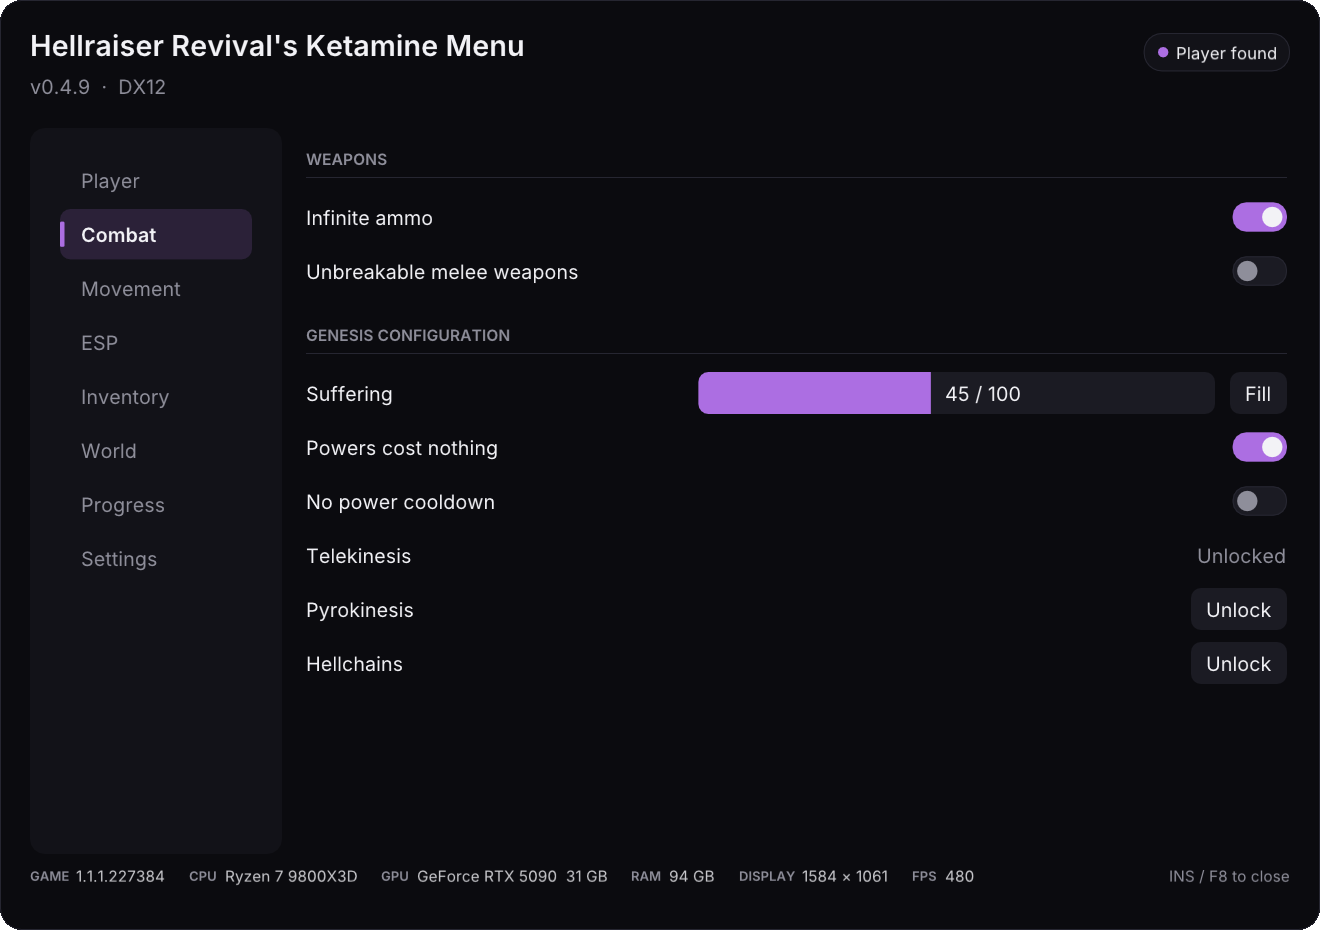
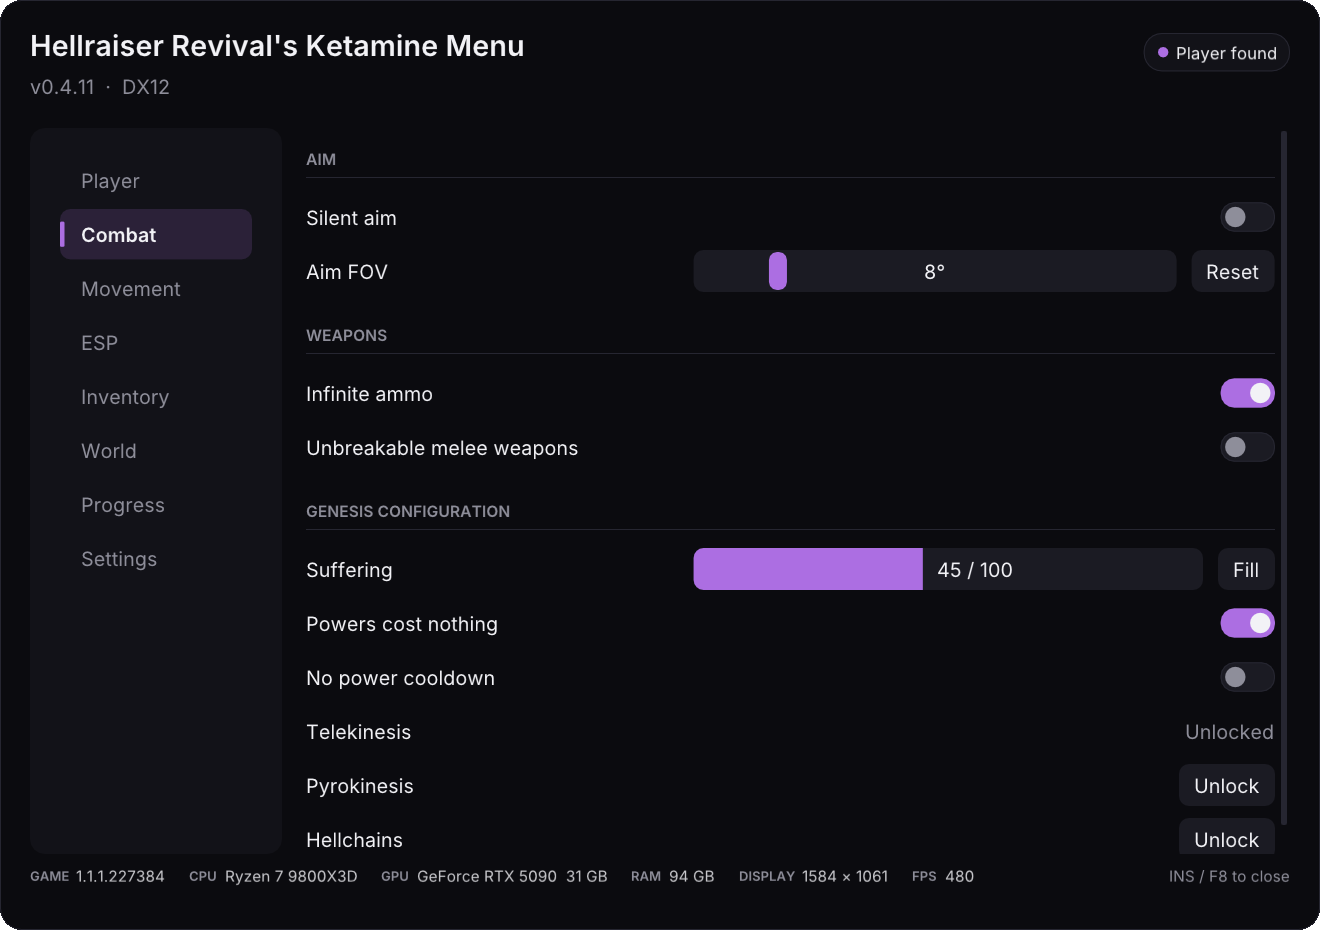
v0.4.11: docs for silent aim and Linux / Steam Deck
READMEs (9 languages) and the Nexus description: silent aim in the feature
list, the Proton launch option WINEDLLOVERRIDES="winmm=n,b" %command%
(GitHub issue #1); default ini gets SilentAim / EspAimFov; Combat and ESP
screenshots re-rendered.

diff --git a/README.ru.md b/README.ru.md
@@ -69,6 +69,8 @@ Clive Barker's Hellraiser - Revival\
 **Вручную, «распаковать в папку игры»:** используйте `KetamineMenu-vX.Y.Z-Nexus.zip`. В нём уже есть папки `Hellraiser\Binaries\Win64\`,
 поэтому Vortex установит его куда нужно, а вручную его можно распаковать прямо в папку игры.
 
+**Linux / Steam Deck (Proton):** Proton загружает свою `winmm.dll` вместо файла меню. В Steam: правой кнопкой по игре → **Свойства** (Properties) → **Параметры запуска** (Launch Options), добавьте `WINEDLLOVERRIDES="winmm=n,b" %command%`.
+
 > [!TIP]
 > Если <kbd>Insert</kbd> / <kbd>F8</kbd> ничего не делают, откройте `KetamineMenu.log` рядом с DLL: там точно написано, что найдено, а что нет.
 > См. [FAQ](#faq--решение-проблем).
@@ -95,6 +97,7 @@ Clive Barker's Hellraiser - Revival\
 - Способности Конфигурации Генезиса (Genesis Configuration) без затрат Страдания
 - Без перезарядки способностей, восполнение Страдания
 - Телекинез, пирокинез и адские цепи раньше, чем по сюжету
+- Тихий аимбот: пули попадают в голову врага, ближайшего к прицелу, внутри настраиваемого круга
 
 **Движение**
 - Полёт и прохождение сквозь стены — туда, куда вы смотрите, обычными клавишами движения или геймпадом

diff --git a/README.ja.md b/README.ja.md
@@ -69,6 +69,8 @@ Clive Barker's Hellraiser - Revival\
 **手動で「ゲームフォルダに展開」する場合：** 代わりに `KetamineMenu-vX.Y.Z-Nexus.zip` を使ってください。`Hellraiser\Binaries\Win64\`
 のフォルダ構成が含まれているので、Vortex が正しい場所に入れてくれますし、ゲームフォルダにそのまま展開することもできます。
 
+**Linux / Steam Deck（Proton）：** Proton はメニューのものではなく自前の `winmm.dll` を読み込みます。Steam でゲームを右クリック → **プロパティ**（Properties）→ **起動オプション**（Launch Options）に `WINEDLLOVERRIDES="winmm=n,b" %command%` を追加してください。
+
 > [!TIP]
 > <kbd>Insert</kbd> / <kbd>F8</kbd> を押しても何も起きない場合は、DLL と同じ場所にある `KetamineMenu.log` を開いてください。何が見つかり、何が見つからなかったかが書かれています。
 > [FAQ](#faq--トラブルシューティング) も参照してください。
@@ -95,6 +97,7 @@ Clive Barker's Hellraiser - Revival\
 - ジェネシス構成（Genesis Configuration）の能力で苦痛を消費しない
 - 能力のクールダウンなし、苦痛を満タンにする
 - 念動力・発火能力・ヘルチェーンをストーリーより先にアンロック
+- サイレントエイム：調整できる円の中で照準に最も近い敵の頭に弾が当たる
 
 **移動**
 - 飛行と壁抜け。見ている方向へ、いつもの移動キーやゲームパッドで操作

diff --git a/README.ko.md b/README.ko.md
@@ -69,6 +69,8 @@ Clive Barker's Hellraiser - Revival\
 **수동으로 "게임 폴더에 압축 풀기":** 대신 `KetamineMenu-vX.Y.Z-Nexus.zip`을 사용하세요. `Hellraiser\Binaries\Win64\` 폴더 구조가
 이미 들어 있어서 Vortex가 올바른 위치에 설치하며, 게임 폴더에 바로 압축을 풀어도 됩니다.
 
+**Linux / Steam Deck (Proton):** Proton은 메뉴의 `winmm.dll` 대신 자체 파일을 불러옵니다. Steam에서 게임을 우클릭 → **속성**(Properties) → **실행 옵션**(Launch Options)에 `WINEDLLOVERRIDES="winmm=n,b" %command%`를 추가하세요.
+
 > [!TIP]
 > <kbd>Insert</kbd> / <kbd>F8</kbd>을 눌러도 아무 반응이 없다면 DLL 옆에 있는 `KetamineMenu.log`를 열어 보세요. 무엇을 찾았고 무엇을 못 찾았는지 정확히 적혀 있습니다.
 > [FAQ](#faq--문제-해결)도 참고하세요.
@@ -95,6 +97,7 @@ Clive Barker's Hellraiser - Revival\
 - 제네시스 구성(Genesis Configuration) 능력 사용 시 고통 소모 없음
 - 능력 쿨다운 없음, 고통 채우기
 - 염력, 발화 능력, 지옥 사슬을 스토리보다 먼저 잠금 해제
+- 사일런트 에임: 조절 가능한 원 안에서 조준점에 가장 가까운 적의 머리에 총알이 맞음
 
 **이동**
 - 비행과 벽 통과: 바라보는 방향으로, 평소의 이동 키나 게임패드로 조작

diff --git a/README.fr.md b/README.fr.md
@@ -69,6 +69,8 @@ Clive Barker's Hellraiser - Revival\
 **À la main, « extraire dans le dossier du jeu » :** prenez plutôt `KetamineMenu-vX.Y.Z-Nexus.zip`. Il contient déjà les dossiers
 `Hellraiser\Binaries\Win64\` : Vortex l'installe donc au bon endroit, ou vous pouvez l'extraire directement dans le dossier du jeu.
 
+**Linux / Steam Deck (Proton) :** Proton charge sa propre `winmm.dll` au lieu de celle du menu. Dans Steam, clic droit sur le jeu → **Propriétés** (Properties) → **Options de lancement** (Launch Options) et ajoutez `WINEDLLOVERRIDES="winmm=n,b" %command%`.
+
 > [!TIP]
 > Si <kbd>Inser</kbd> / <kbd>F8</kbd> ne font rien, ouvrez `KetamineMenu.log` à côté de la DLL : il indique exactement ce qui a été trouvé et ce qui ne l'a pas été.
 > Voir la [FAQ](#faq--dépannage).
@@ -95,6 +97,7 @@ avec la raison dans une infobulle, au lieu de faire planter le jeu.
 - Pouvoirs de la Configuration Genesis sans coût en Souffrance
 - Pouvoirs sans recharge, remplir la Souffrance
 - Débloquer Télékinésie, Pyrokinésie et Chaînes infernales avant l'histoire
+- Visée silencieuse : vos tirs touchent la tête de l'ennemi le plus proche du viseur, dans un cercle réglable
 
 **Déplacement**
 - Vol et noclip vers là où vous regardez, avec vos touches de déplacement habituelles ou la manette

diff --git a/README.es.md b/README.es.md
@@ -69,6 +69,8 @@ Clive Barker's Hellraiser - Revival\
 **A mano, "extraer en la carpeta del juego":** usa `KetamineMenu-vX.Y.Z-Nexus.zip`. Ya trae las carpetas `Hellraiser\Binaries\Win64\`,
 así que Vortex lo instala en el sitio correcto, o puedes extraerlo directamente en la carpeta del juego.
 
+**Linux / Steam Deck (Proton):** Proton carga su propia `winmm.dll` en lugar de la del menú. En Steam, clic derecho en el juego → **Propiedades** (Properties) → **Opciones de lanzamiento** (Launch Options) y añade `WINEDLLOVERRIDES="winmm=n,b" %command%`.
+
 > [!TIP]
 > Si <kbd>Insert</kbd> / <kbd>F8</kbd> no hacen nada, abre `KetamineMenu.log` junto a la DLL: dice exactamente qué se encontró y qué no.
 > Consulta las [FAQ](#faq--solución-de-problemas).
@@ -95,6 +97,7 @@ Cada opción busca los datos del juego **por su nombre mientras se ejecuta**. Si
 - Poderes de la Configuración Génesis sin coste de Sufrimiento
 - Poderes sin enfriamiento, llenar Sufrimiento
 - Desbloquear Telequinesis, Piroquinesis y Cadenas infernales antes que la historia
+- Aim silencioso: tus disparos dan en la cabeza del enemigo más cercano a la mira, dentro de un círculo ajustable
 
 **Movimiento**
 - Volar y noclip hacia donde miras, con tus teclas de movimiento habituales o el mando

diff --git a/README.de.md b/README.de.md
@@ -69,6 +69,8 @@ Clive Barker's Hellraiser - Revival\
 **Manuell „in den Spielordner entpacken“:** nimm stattdessen `KetamineMenu-vX.Y.Z-Nexus.zip`. Es enthält bereits die Ordner
 `Hellraiser\Binaries\Win64\`, also installiert Vortex es an die richtige Stelle, oder du entpackst es direkt in den Spielordner.
 
+**Linux / Steam Deck (Proton):** Proton lädt seine eigene `winmm.dll` statt der des Menüs. In Steam: Rechtsklick aufs Spiel → **Eigenschaften** (Properties) → **Startoptionen** (Launch Options) und `WINEDLLOVERRIDES="winmm=n,b" %command%` eintragen.
+
 > [!TIP]
 > Wenn <kbd>Einfg</kbd> / <kbd>F8</kbd> nichts tun, öffne `KetamineMenu.log` neben der DLL: dort steht genau, was gefunden wurde und was nicht.
 > Siehe [FAQ](#faq--fehlerbehebung).
@@ -95,6 +97,7 @@ der Grund steht im Tooltip, statt dass das Spiel abstürzt.
 - Kräfte der Genesis-Konfiguration ohne Leid-Kosten
 - Keine Abklingzeit für Kräfte, Leid auffüllen
 - Telekinese, Pyrokinese und Höllenketten vor der Story freischalten
+- Silent Aim: deine Schüsse treffen den Kopf des Gegners, der dem Fadenkreuz am nächsten ist, in einem einstellbaren Kreis
 
 **Bewegung**
 - Fliegen und Noclip in Blickrichtung, mit deinen üblichen Bewegungstasten oder dem Gamepad

diff --git a/README.pt-BR.md b/README.pt-BR.md
@@ -69,6 +69,8 @@ Clive Barker's Hellraiser - Revival\
 **Manual, "extrair na pasta do jogo":** use o `KetamineMenu-vX.Y.Z-Nexus.zip`. Ele já vem com as pastas `Hellraiser\Binaries\Win64\`,
 então o Vortex instala no lugar certo, ou você pode extrair direto na pasta do jogo.
 
+**Linux / Steam Deck (Proton):** O Proton carrega o próprio `winmm.dll` em vez do do menu. Na Steam, clique com o botão direito no jogo → **Propriedades** (Properties) → **Opções de inicialização** (Launch Options) e adicione `WINEDLLOVERRIDES="winmm=n,b" %command%`.
+
 > [!TIP]
 > Se <kbd>Insert</kbd> / <kbd>F8</kbd> não fizerem nada, abra o `KetamineMenu.log` ao lado da DLL: ele diz exatamente o que foi encontrado e o que não foi.
 > Veja o [FAQ](#faq--solução-de-problemas).
@@ -95,6 +97,7 @@ na dica, em vez de fechar o jogo.
 - Poderes da Configuração Gênesis sem custo de Sofrimento
 - Poderes sem recarga, encher o Sofrimento
 - Desbloquear Telecinese, Pirocinese e Correntes infernais antes da história
+- Mira silenciosa: seus tiros acertam a cabeça do inimigo mais perto da mira, dentro de um círculo ajustável
 
 **Movimento**
 - Voar e noclip para onde você olha, com as teclas de movimento de sempre ou o controle

diff --git a/README.zh-CN.md b/README.zh-CN.md
@@ -69,6 +69,8 @@ Clive Barker's Hellraiser - Revival\
 **手动“解压到游戏目录”：** 请改用 `KetamineMenu-vX.Y.Z-Nexus.zip`。它已经包含 `Hellraiser\Binaries\Win64\` 文件夹结构，
 所以 Vortex 会把它装到正确的位置，你也可以直接把它解压到游戏目录。
 
+**Linux / Steam Deck（Proton）：** Proton 默认加载它自带的 `winmm.dll`，而不是本菜单的。在 Steam 中右键游戏 → **属性**（Properties）→ **启动选项**（Launch Options），添加 `WINEDLLOVERRIDES="winmm=n,b" %command%`。
+
 > [!TIP]
 > 如果按 <kbd>Insert</kbd> / <kbd>F8</kbd> 没有反应，请打开 DLL 旁边的 `KetamineMenu.log`：里面写清楚了找到了什么、没找到什么。
 > 参见[常见问题](#常见问题--故障排除)。
@@ -94,6 +96,7 @@ Clive Barker's Hellraiser - Revival\
 - 创世构型（Genesis Configuration）能力不消耗痛苦值
 - 能力无冷却、填满痛苦值
 - 提前解锁念动力、念火和地狱锁链（不用等剧情）
+- 静默自瞄：子弹命中准星附近圆圈内最近敌人的头部（圆圈大小可调）
 
 **移动**
 - 飞行和穿墙，朝视线方向移动，使用常用的移动键或手柄

diff --git a/README.md b/README.md
@@ -69,6 +69,8 @@ Clive Barker's Hellraiser - Revival\
 **Manual "extract to game folder":** use `KetamineMenu-vX.Y.Z-Nexus.zip` instead. It already contains the
 `Hellraiser\Binaries\Win64\` folders, so Vortex installs it in the right place, or you can extract it straight into the game folder.
 
+**Linux / Steam Deck (Proton):** Proton loads its own `winmm.dll` instead of the menu's. In Steam, right-click the game → **Properties** → **Launch Options** and add `WINEDLLOVERRIDES="winmm=n,b" %command%`.
+
 > [!TIP]
 > If <kbd>Insert</kbd> / <kbd>F8</kbd> do nothing, open `KetamineMenu.log` next to the DLL: it says exactly what was found and what wasn't.
 > See the [FAQ](#faq--troubleshooting).
@@ -95,6 +97,7 @@ out with the reason in a tooltip instead of crashing.
 - Genesis Configuration powers with no Suffering cost
 - No power cooldown, refill Suffering
 - Unlock Telekinesis, Pyrokinesis and Hellchains before the story does
+- Silent aim: your shots hit the head of the enemy nearest the crosshair, inside an adjustable circle
 
 **Movement**
 - Fly and noclip, towards where you look, with your usual movement keys or gamepad
